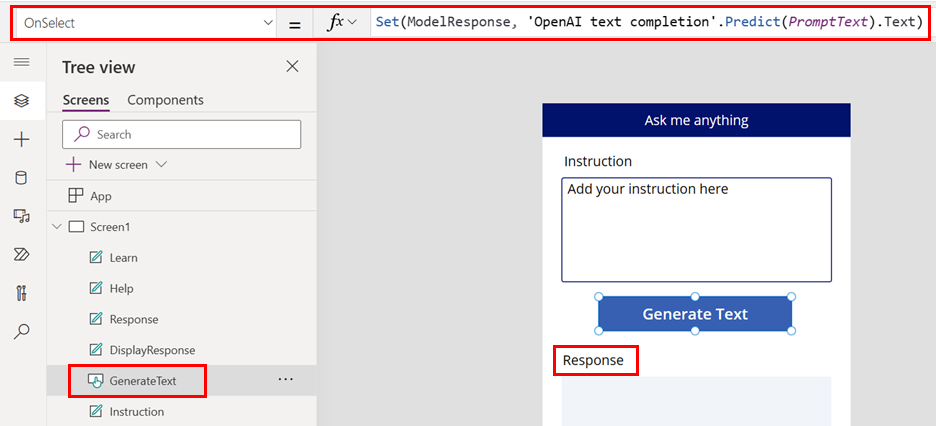
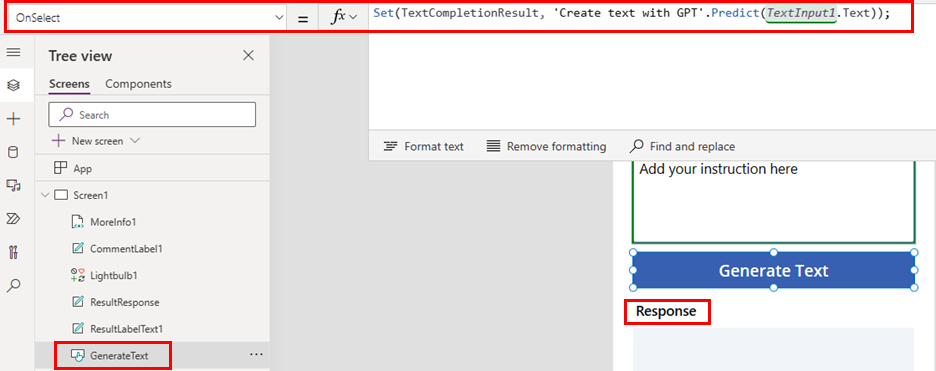
final-edits

diff --git a/ai-builder-docs/azure-openai-textgen.md b/ai-builder-docs/azure-openai-textgen.md
@@ -70,7 +70,7 @@ There are generally two parts of any prompt:
 
 Usually in an automation task, the first part of the prompt (the instruction) remains constant. The second part of the prompt (the context) gets replaced by a dynamic content, such that you can reuse the instruction in an automation workflow. For example, we're building automation to summarize weekly customer feedback and to generate a positive toned response. We would build an automation to filter out the weekly emails containing customer feedback and give a prompt to the GPT model with instruction part as follows:
 
-“*Summarize the following customer feedback into bullet points, identify each distinct topic." Additionally, generate a positive tone response, indicating that we will take action on key points they have highlighted.*"
+“*Summarize the following customer feedback into bullet points, identify each distinct topic. Additionally, generate a positive tone response, indicating that we will take action on key points they have highlighted.*"
 
 :::image type="content" alt-text="Screenshot of the Azure OpenAI Service model in the AI Builder Explore screen." source="media/azure-openai-textgen/instruction.png":::
 

diff --git a/ai-builder-docs/prebuilt-azure-openai.md b/ai-builder-docs/prebuilt-azure-openai.md
@@ -44,9 +44,9 @@ The following list provides some real-life scenarios of how your business can us
 
 - Create a translation tool that can accurately help translate text from one language to another. The possibilities are endless. 
 
-## Try it out
+## Explore the model
 
- Try out the Azure OpenAI Service model to learn how to instruct it to generate a desired text. The prompt engineering interface comes with some sample prompts to help you try various instructions in this capability.
+Find the Azure OpenAI Service model on the **Explore** page under the **Text** models. This will open a prompt engineering interface. The interface comes with sample prompts to help you try various instructions in this capability. You can also create your own prompts to instruct the model.
 
 To open the model:
 

diff --git a/ai-builder-docs/azure-openai-model-papp.md b/ai-builder-docs/azure-openai-model-papp.md
@@ -66,7 +66,7 @@ To bind the **Create text with GPT** model to a control, identify an event of th
 1. Notice the Power Fx function:
 
     ```powerapps-dot
-    `Set(ModelResponse, 'OpenAI text completion'.Predict(PromptText).Text)`
+    `Set(ModelResponse, 'Create text with GPT'.Predict(PromptText).Text)`
     ````
 
     The `.Predict()` on this model accepts a string as a parameter and returns the generated text as a response text. In the following example, we're passing the instruction from the text box as a prompt to the **Create text with GPT** model, and the response from the model appears in the **Response** label.  
